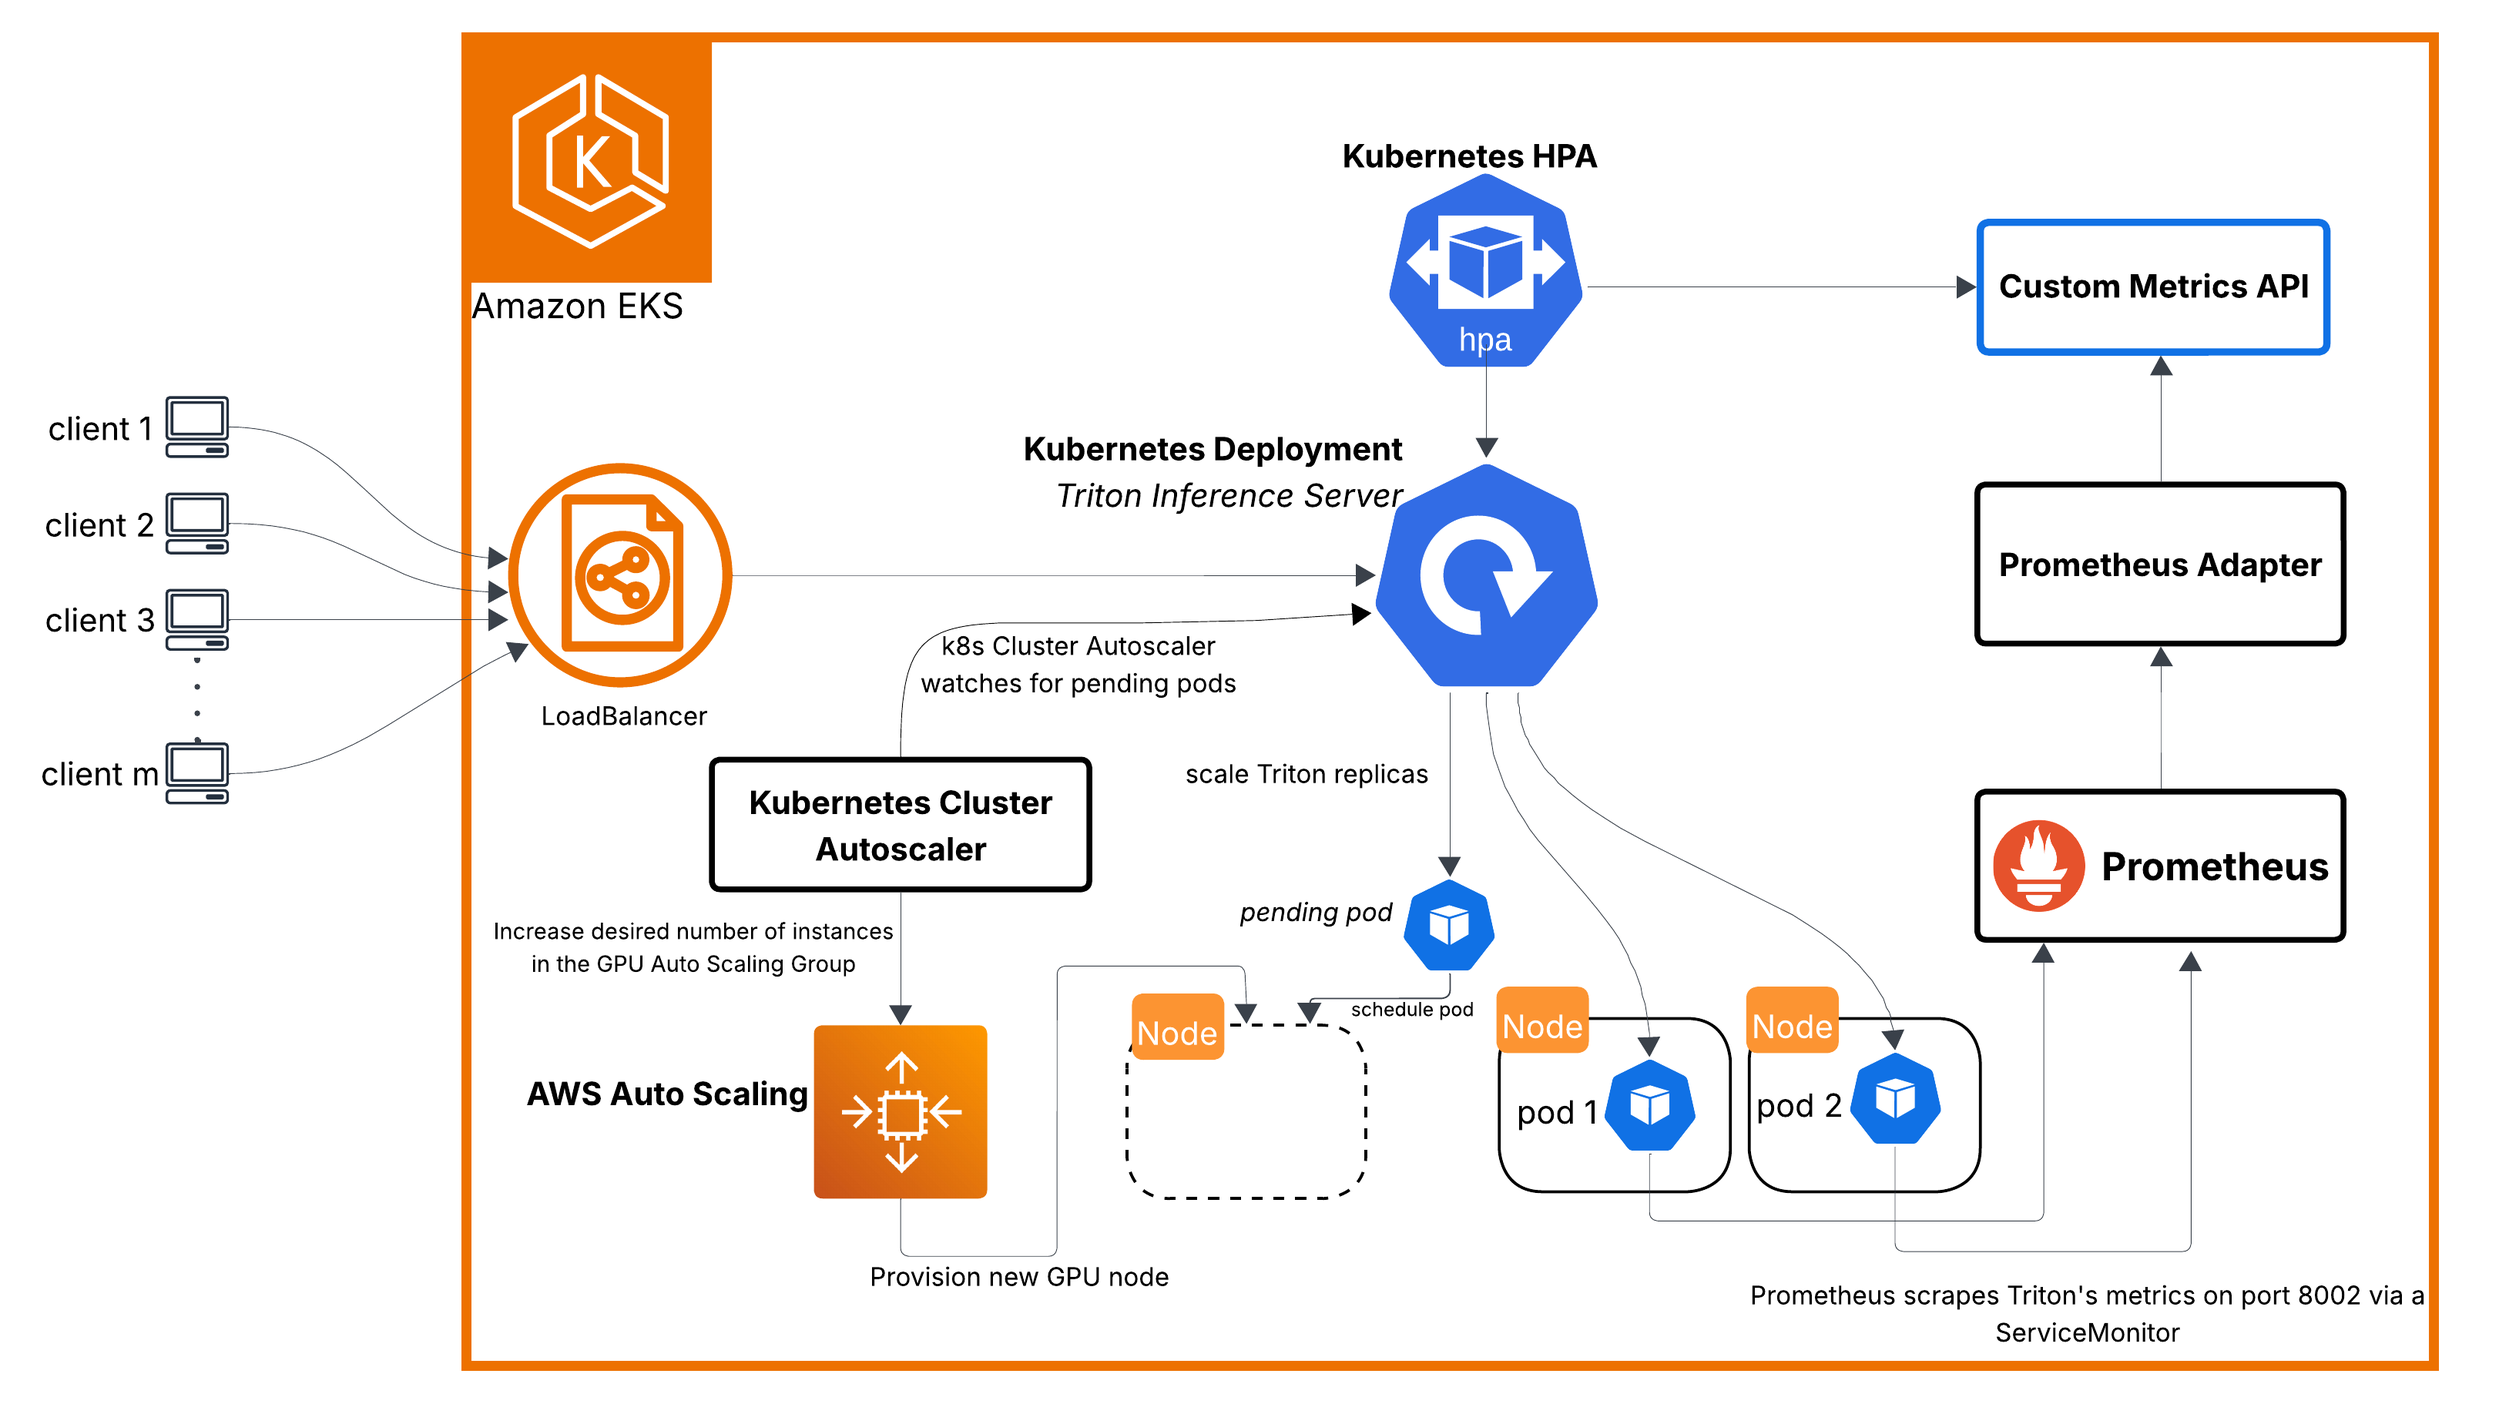
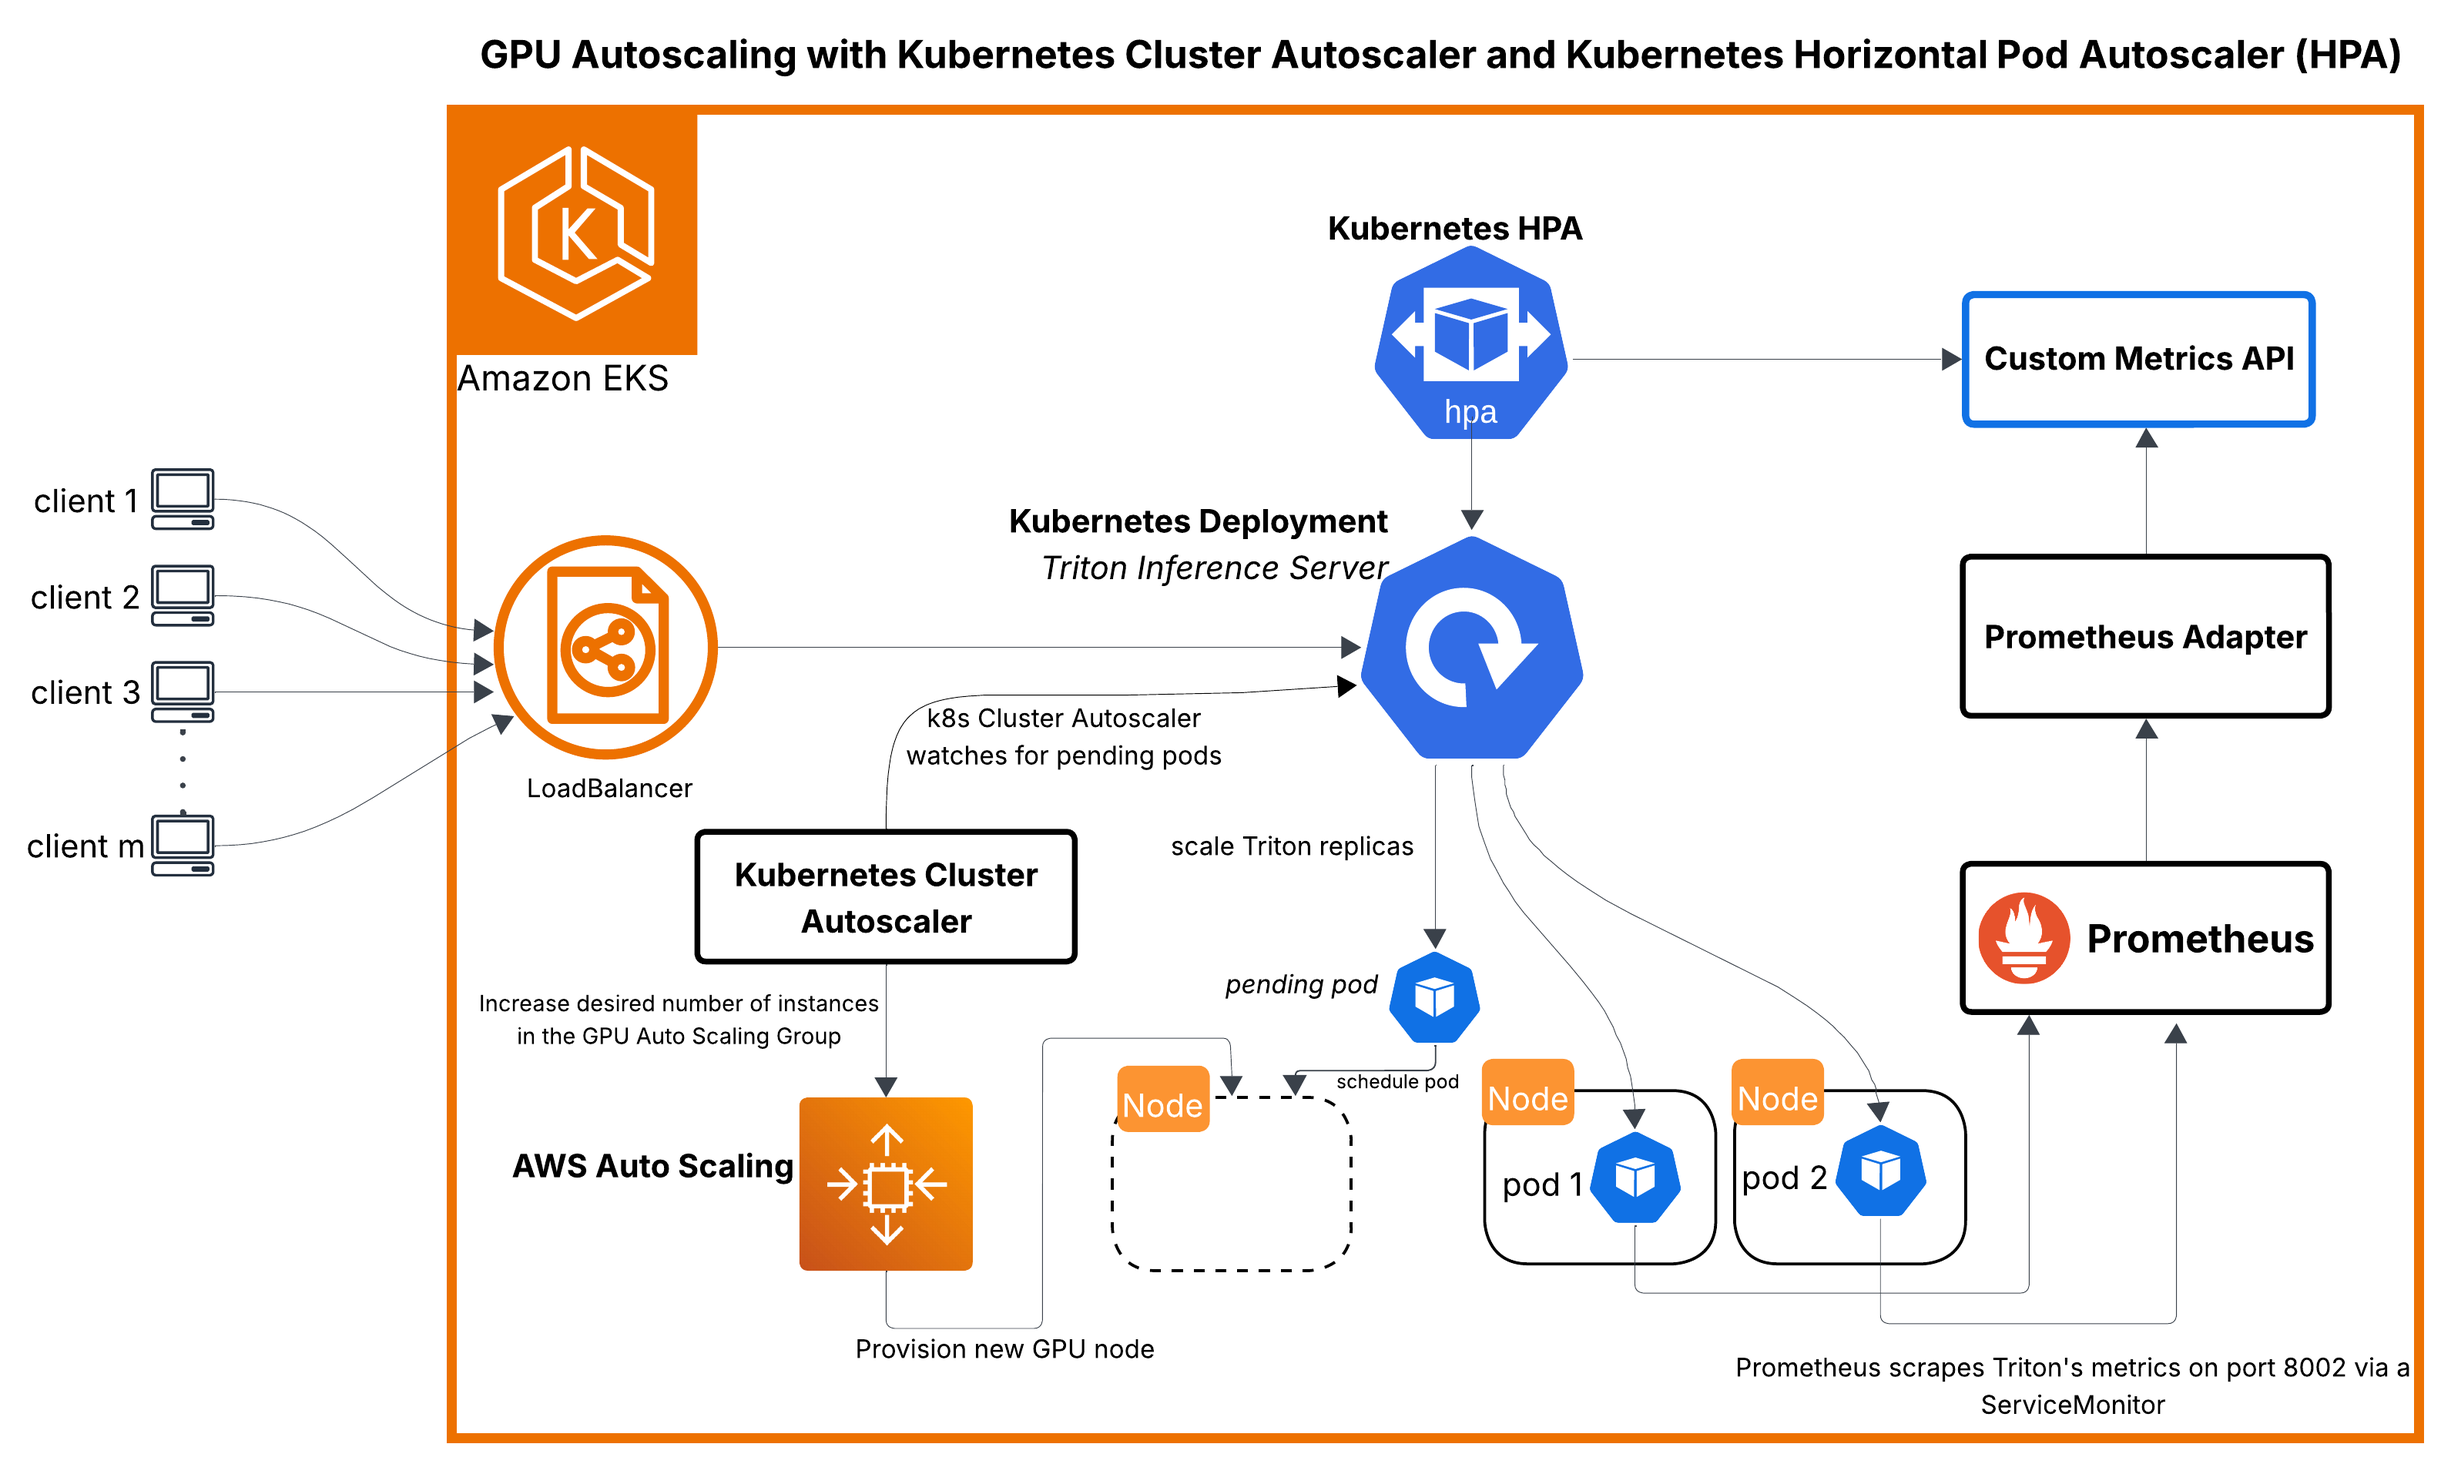
update docs

diff --git a/Merlin-MLOps-on-AWS-with-with-Cluster_Autoscaler/documentation/SETUP_INSTRUCTIONS.md b/Merlin-MLOps-on-AWS-with-with-Cluster_Autoscaler/documentation/SETUP_INSTRUCTIONS.md
@@ -1,4 +1,5 @@
 # Deploying a Recommender System with Continuous Retraining on Amazon EKS
+*Autoscaling with Kubernetes Cluster Autoscaler and Kubernetes Horizontal Autoscaler*
 
 
 ## Follow these steps to set up the infrastructure and deploy the recommender system:

diff --git a/Merlin-MLOps-on-AWS-with-Karpenter/documentation/setup_instructions.md b/Merlin-MLOps-on-AWS-with-Karpenter/documentation/setup_instructions.md
@@ -1,5 +1,5 @@
 # Deploying a Recommender System with Continuous Retraining on Amazon EKS
-
+*Autoscaling with Karpenter and Kubernetes Horizontal Pod Autoscaler*
 
 ## Follow these steps to set up the infrastructure and deploy the recommender system:
 
